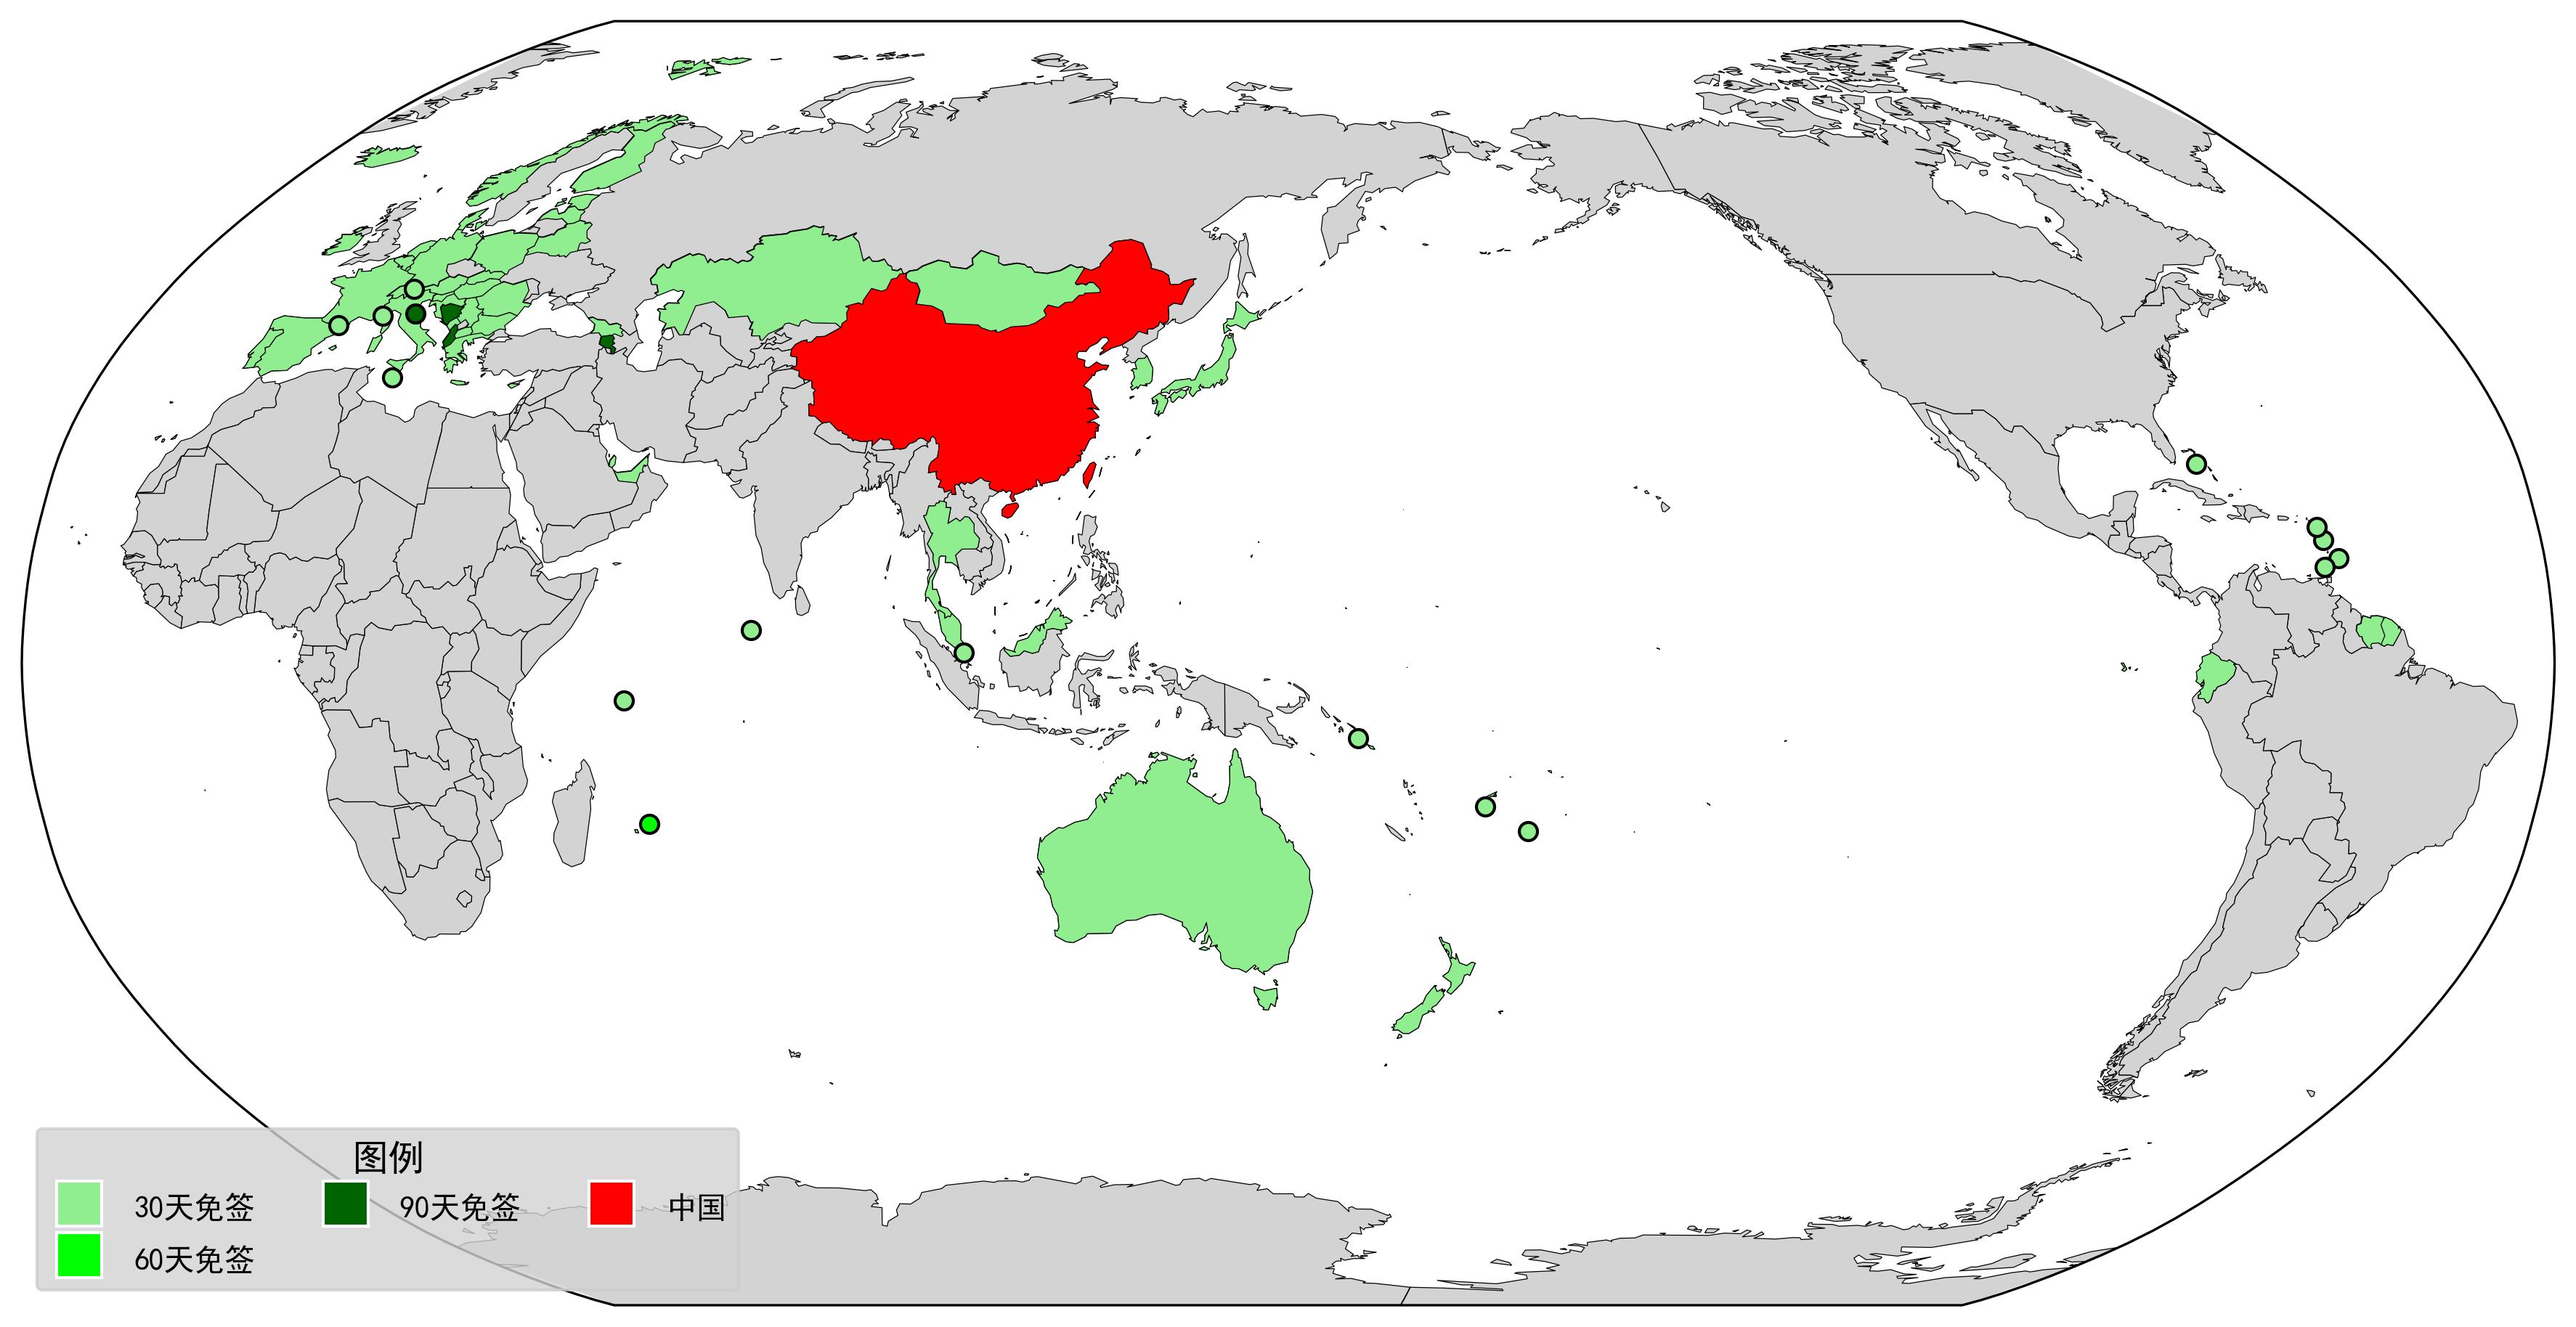
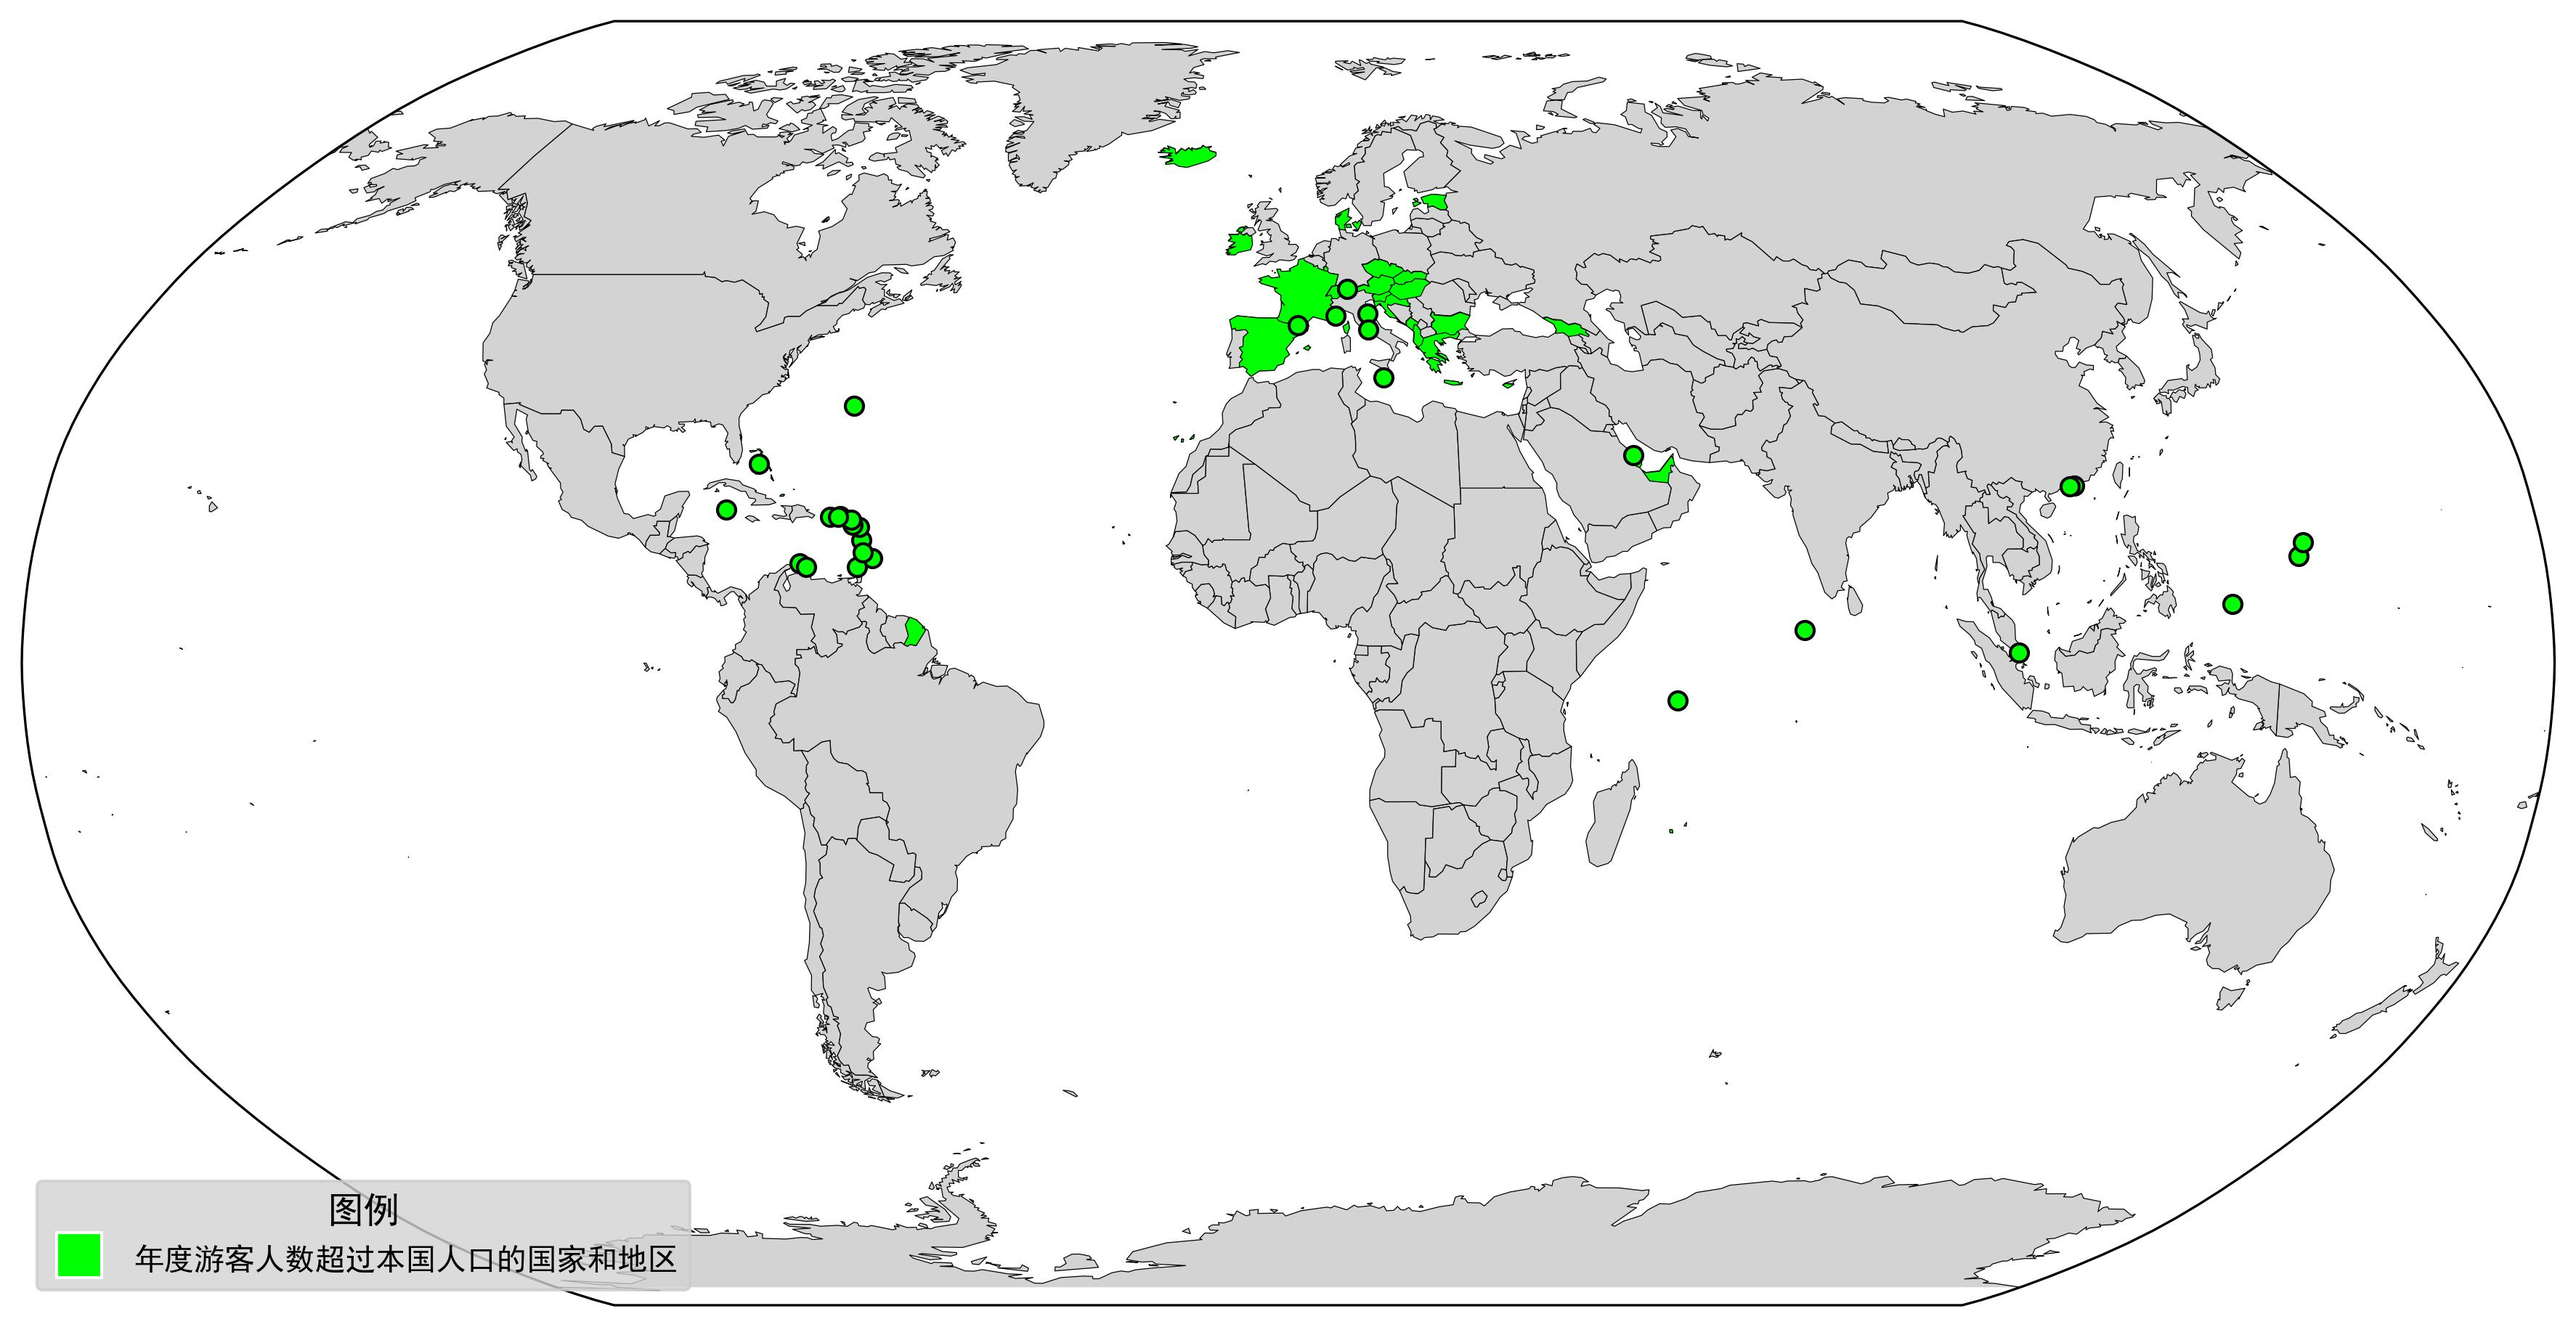
`

diff --git a/app/utils/map_utils.py b/app/utils/map_utils.py
@@ -28,7 +28,8 @@ matplotlib.use('Agg')
 target_country_list = [
     '库克群岛','佛得角','格林纳达','多米尼克','所罗门群岛','密克罗尼西亚','帕劳','萨摩亚','圣马力诺','圣多美和普林西比','汤加','瓦努阿图',
     '安道尔','库拉索','马尔代夫','马绍尔群岛','圣文森特和格林纳丁斯','塞舌尔','新加坡','圣基茨和尼维斯','科摩罗','图瓦卢', '特立尼达和多巴哥', 
-    "巴巴多斯", "巴哈马", "斐济", "毛里求斯", "安提瓜和巴布达", "摩纳哥", "梵蒂冈", "马耳他", "列支敦士登"
+    "巴巴多斯", "巴哈马", "斐济", "毛里求斯", "安提瓜和巴布达", "摩纳哥", "梵蒂冈", "马耳他", "列支敦士登", "阿鲁巴", "巴林", "百慕大", "英属维尔京群岛", 
+    "美属维尔京群岛", "开曼群岛", "关岛", "香港", "澳门", "北马里亚纳群岛", "波多黎各", "圣卢西亚", "圣马丁", "特克斯和凯科斯群岛"
 ]
 area_dict = {
     "欧洲": [45, -25, 33, 68],
@@ -206,7 +207,7 @@ async def fillin_color_image_pro(data: FillinMap, db: AsyncSession):
     plt.rcParams['axes.unicode_minus'] = False
     world = gpd.read_file('./data/worldmap/world_update.json')
     world = world.to_crs(ccrs.PlateCarree())
-    fig, ax = plt.subplots(1, 1, figsize=(15, 10), subplot_kw={'projection': ccrs.Robinson(central_longitude=150)})
+    fig, ax = plt.subplots(1, 1, figsize=(15, 10), subplot_kw={'projection': ccrs.Robinson(central_longitude=0)})
     world.plot(ax=ax, color='lightgray', edgecolor='black', linewidth=0.3, transform=ccrs.PlateCarree())
 
     legend_elements = []
